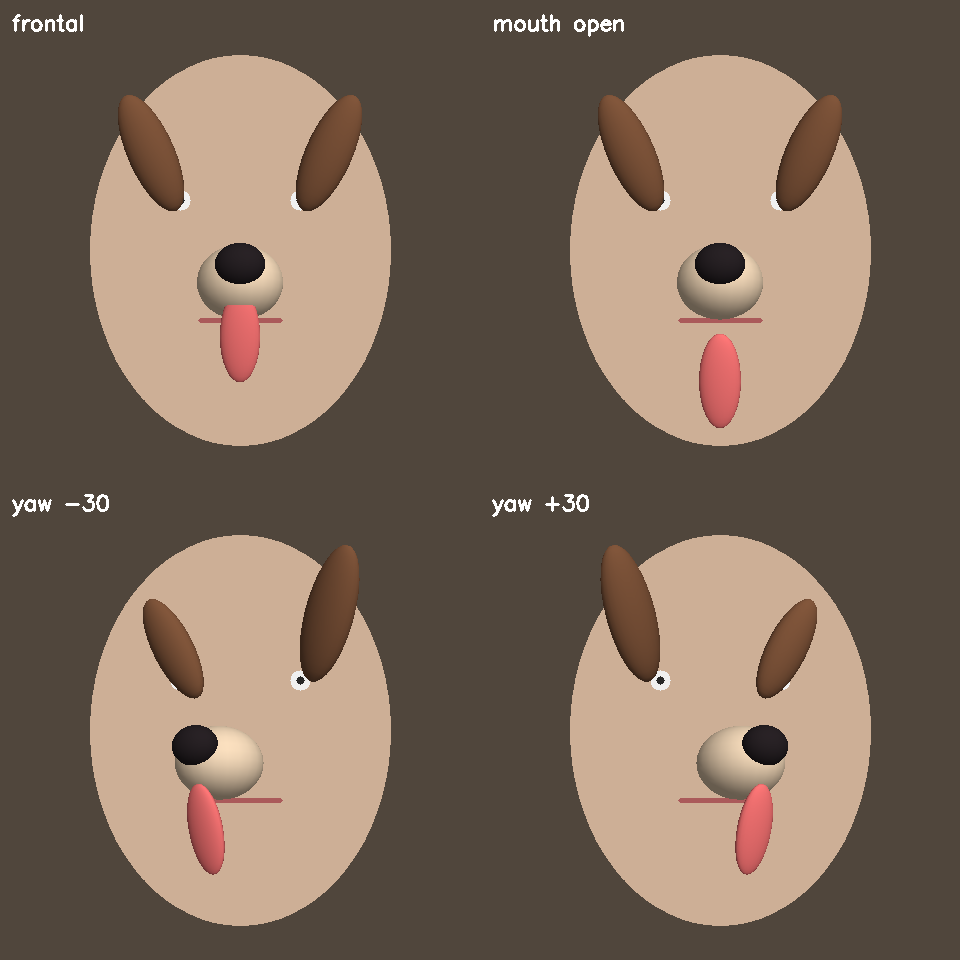
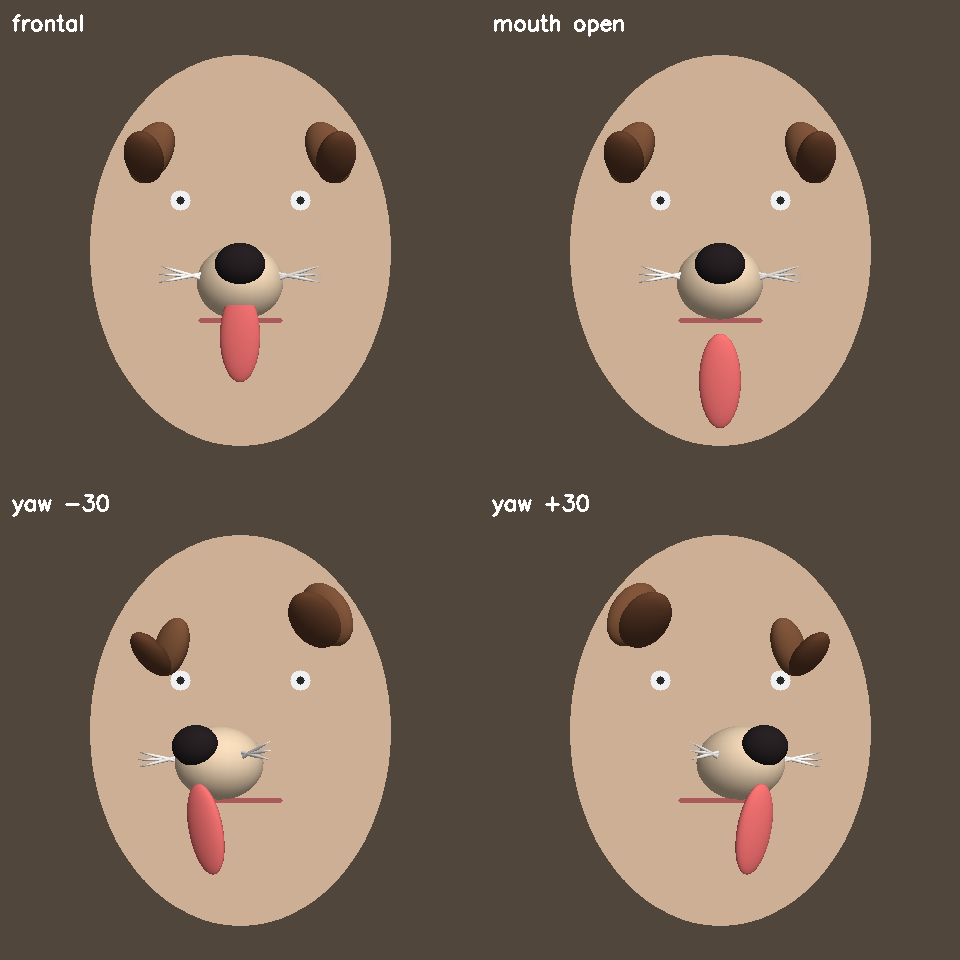
Dog filter: smooth the head pose, add whiskers and folded ears
- Pose smoothing: on top of the tracker's landmark smoothing, the recovered
  head pose (Rodrigues rotation + translation) is blended toward the previous
  frame, snapping instead of lagging on a large jump (re-acquisition). Much
  steadier assets.
- Whiskers: three thin off-white 3D spindles fanning out from each side of the
  muzzle.
- Folded ears: replace the straight floppy ears with an upright base segment
  plus a darker tip that folds forward and down over it.

Claude-Session: https://claude.ai/code/session_01Ui767rPDqWP1UMCsLjoYeZ

diff --git a/src/dogfilter.cpp b/src/dogfilter.cpp
@@ -20,10 +20,12 @@ cv::Matx33d euler(double xd, double yd, double zd) {
 }
 
 // BGR colours.
-const cv::Vec3b kEar{55, 80, 120};      // brown
+const cv::Vec3b kEar{55, 80, 120};      // brown (outer ear)
+const cv::Vec3b kEarFold{42, 62, 98};   // darker brown (folded-over tip)
 const cv::Vec3b kMuzzle{175, 205, 230}; // light tan
 const cv::Vec3b kNose{35, 32, 38};      // near-black
 const cv::Vec3b kTongue{110, 110, 235}; // pink-red
+const cv::Vec3b kWhisker{232, 236, 240};// off-white
 
 } // namespace
 
@@ -40,12 +42,28 @@ DogFilter::DogFilter() {
     parts_.push_back({makeEllipsoid(56, 47, 47, kNose),
                       euler(0, 0, 0), cv::Vec3d(0, -45, 205)});
 
-    // Ears: floppy, elongated, hanging down the sides of the head, splayed out.
-    // Anchored high (near the top of the head) and tilted outward.
-    parts_.push_back({makeEllipsoid(66, 175, 44, kEar),
-                      euler(14, 0, 24), cv::Vec3d(-250, 300, -20)});
-    parts_.push_back({makeEllipsoid(66, 175, 44, kEar),
-                      euler(14, 0, -24), cv::Vec3d(250, 300, -20)});
+    // Folded ears: an upright base segment near the top of the head, plus a tip
+    // segment that folds forward and down over it (the classic folded-ear look).
+    // Right (+X) then left (-X).
+    parts_.push_back({makeEllipsoid(58, 92, 40, kEar),
+                      euler(6, 0, 26), cv::Vec3d(248, 300, -10)});     // base
+    parts_.push_back({makeEllipsoid(54, 86, 34, kEarFold),
+                      euler(64, 0, 18), cv::Vec3d(250, 250, 78)});     // folded tip
+    parts_.push_back({makeEllipsoid(58, 92, 40, kEar),
+                      euler(6, 0, -26), cv::Vec3d(-248, 300, -10)});
+    parts_.push_back({makeEllipsoid(54, 86, 34, kEarFold),
+                      euler(64, 0, -18), cv::Vec3d(-250, 250, 78)});
+
+    // Whiskers: thin off-white spindles fanning out from each side of the muzzle.
+    Mesh whisker = makeEllipsoid(98, 4.5f, 4.5f, kWhisker, 6, 8);
+    for (int side : {-1, 1}) {
+        for (int k = -1; k <= 1; ++k) {
+            double fan = k * 15.0;                          // up/down spread
+            cv::Matx33d rot = euler(0, -side * 24.0, side * fan); // tip forward
+            cv::Vec3d off(side * 96.0, -66.0 - k * 4.0, 150.0);
+            parts_.push_back({whisker, rot, off});
+        }
+    }
 
     // Tongue: pink, flattened, hanging below the muzzle; extends when mouth opens.
     tongueBase_ = cv::Vec3d(0, -205, 150);
@@ -116,10 +134,41 @@ void DogFilter::render(cv::Mat& frame, const cv::Matx33d& R, const cv::Vec3d& t,
     }
 }
 
+// Blend the pose toward the previous frame's, except on a large jump (which
+// means we just re-acquired the face somewhere new).
+void DogFilter::smoothPose(cv::Vec3d& rvec, cv::Vec3d& tvec) {
+    if (!hasPose_) {
+        prevRvec_ = rvec;
+        prevTvec_ = tvec;
+        hasPose_ = true;
+        return;
+    }
+    double tref = std::max(1.0, cv::norm(prevTvec_));
+    bool jump = cv::norm(tvec - prevTvec_) > 0.4 * tref ||
+                cv::norm(rvec - prevRvec_) > 0.6; // ~34 degrees
+    if (!jump) {
+        const double aR = 0.35, aT = 0.4; // new-sample weight (lower = steadier)
+        rvec = aR * rvec + (1.0 - aR) * prevRvec_;
+        tvec = aT * tvec + (1.0 - aT) * prevTvec_;
+    }
+    prevRvec_ = rvec;
+    prevTvec_ = tvec;
+}
+
 bool DogFilter::apply(cv::Mat& frame, const std::vector<cv::Point2f>& landmarks) {
     cv::Matx33d R, K;
     cv::Vec3d t;
     if (!estimatePose(landmarks, frame.size(), R, t, K)) return false;
+
+    // Smooth the pose as well as the landmarks, for a steadier filter.
+    cv::Vec3d rvec;
+    cv::Mat rm;
+    cv::Rodrigues(cv::Mat(R), rm);
+    rvec = cv::Vec3d(rm.ptr<double>()[0], rm.ptr<double>()[1], rm.ptr<double>()[2]);
+    smoothPose(rvec, t);
+    cv::Rodrigues(rvec, rm);
+    R = cv::Matx33d((double*)rm.ptr<double>());
+
     render(frame, R, t, K, mouthOpen(landmarks));
     return true;
 }

diff --git a/src/dogfilter.hpp b/src/dogfilter.hpp
@@ -42,11 +42,19 @@ private:
 
     static double mouthOpen(const std::vector<cv::Point2f>& lm);
 
+    // Temporally smooth the head pose (Rodrigues rotation + translation) on top
+    // of the tracker's landmark smoothing, snapping instead of blending on a
+    // large jump (re-acquisition).
+    void smoothPose(cv::Vec3d& rvec, cv::Vec3d& tvec);
+
     std::vector<Part> parts_;
     size_t tongueIdx_ = 0; // parts_ index of the tongue (animated per frame)
     cv::Vec3d tongueBase_;
     cv::Mat zbuf_;
     Light light_;
+
+    bool hasPose_ = false;
+    cv::Vec3d prevRvec_, prevTvec_;
 };
 
 } // namespace olc

diff --git a/README.md b/README.md
@@ -17,9 +17,10 @@ A touch-friendly, **icon-only** camera app for the **Raspberry Pi Zero 2 W**
   `ffmpeg`); disable with `--no-audio`.
 - Built-in **gallery**: browse captured photos and videos, **play** videos
   back, and **delete** them behind an icon-only ✓ / ✗ confirmation.
-- Optional **dog face AR filter**: smooth **3D** ears, muzzle, nose and a
-  tongue (that lolls when you open your mouth), mapped onto face-mesh landmarks
-  and tracking head pose in 3D — see [Dog face filter](#dog-face-filter-ar).
+- Optional **dog face AR filter**: smooth **3D** folded ears, muzzle, nose,
+  whiskers and a tongue (that lolls when you open your mouth), mapped onto
+  face-mesh landmarks and tracking head pose in 3D — see
+  [Dog face filter](#dog-face-filter-ar).
 
 ![UI mockup](docs/ui-mockup.png)
 
@@ -364,7 +365,7 @@ line.
 ## Dog face filter (AR)
 
 A WhatsApp/Snapchat-style dog filter built from **real-time 3D assets** —
-floppy ears, a protruding muzzle, a black nose and a tongue — **not 2D
+folded ears, a protruding muzzle, a black nose, whiskers and a tongue — **not 2D
 sprites**. They are smooth shaded meshes mapped onto the face-mesh landmarks and
 oriented by the head pose, so they turn with your head in 3D. The tongue drops
 and lengthens as you open your mouth. Photos and videos capture the filter, just
@@ -384,9 +385,11 @@ like the phone apps.
    mesh"). Between detector runs the fit is seeded from the *previous frame's*
    landmark box, which tracks head turns far more smoothly than re-detecting
    each frame.
-3. **Smoothing** — a **one-euro filter** on the landmarks removes the frame-to-
-   frame jitter that otherwise makes the assets shake, while keeping latency low
-   when you actually move.
+3. **Smoothing** — a **one-euro filter** on the landmarks *and* an additional
+   smoothing pass on the recovered head pose (rotation + translation) remove the
+   frame-to-frame jitter that otherwise makes the assets shake, while keeping
+   latency low when you actually move. Both snap (rather than lag) on
+   re-acquisition.
 4. **Head pose** — `solvePnP` against a canonical 3D face model recovers the
    head's rotation and translation.
 5. **3D assets** — the ears/muzzle/nose/tongue are procedurally-generated smooth